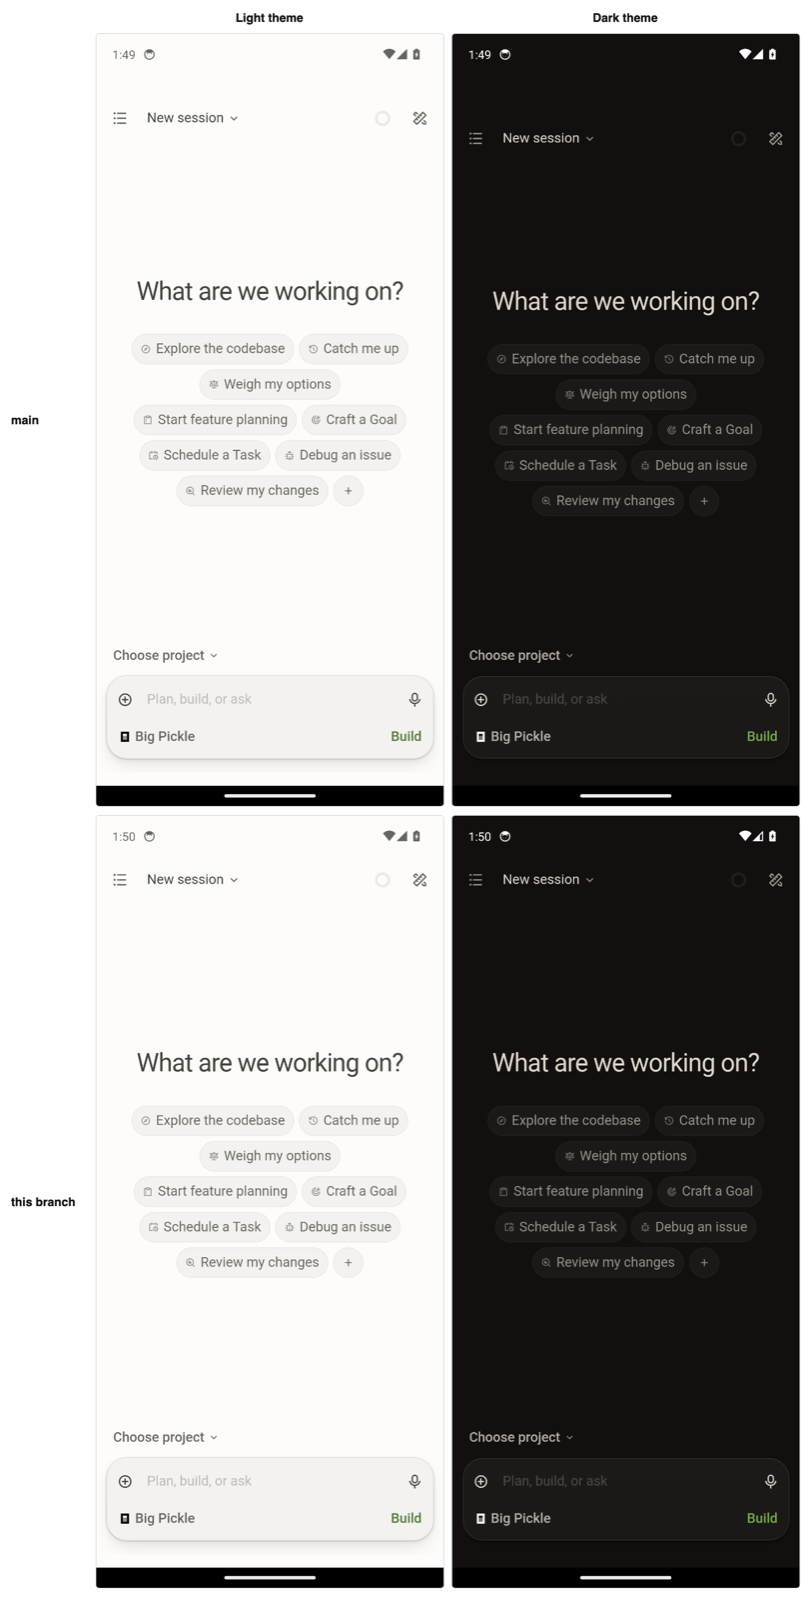
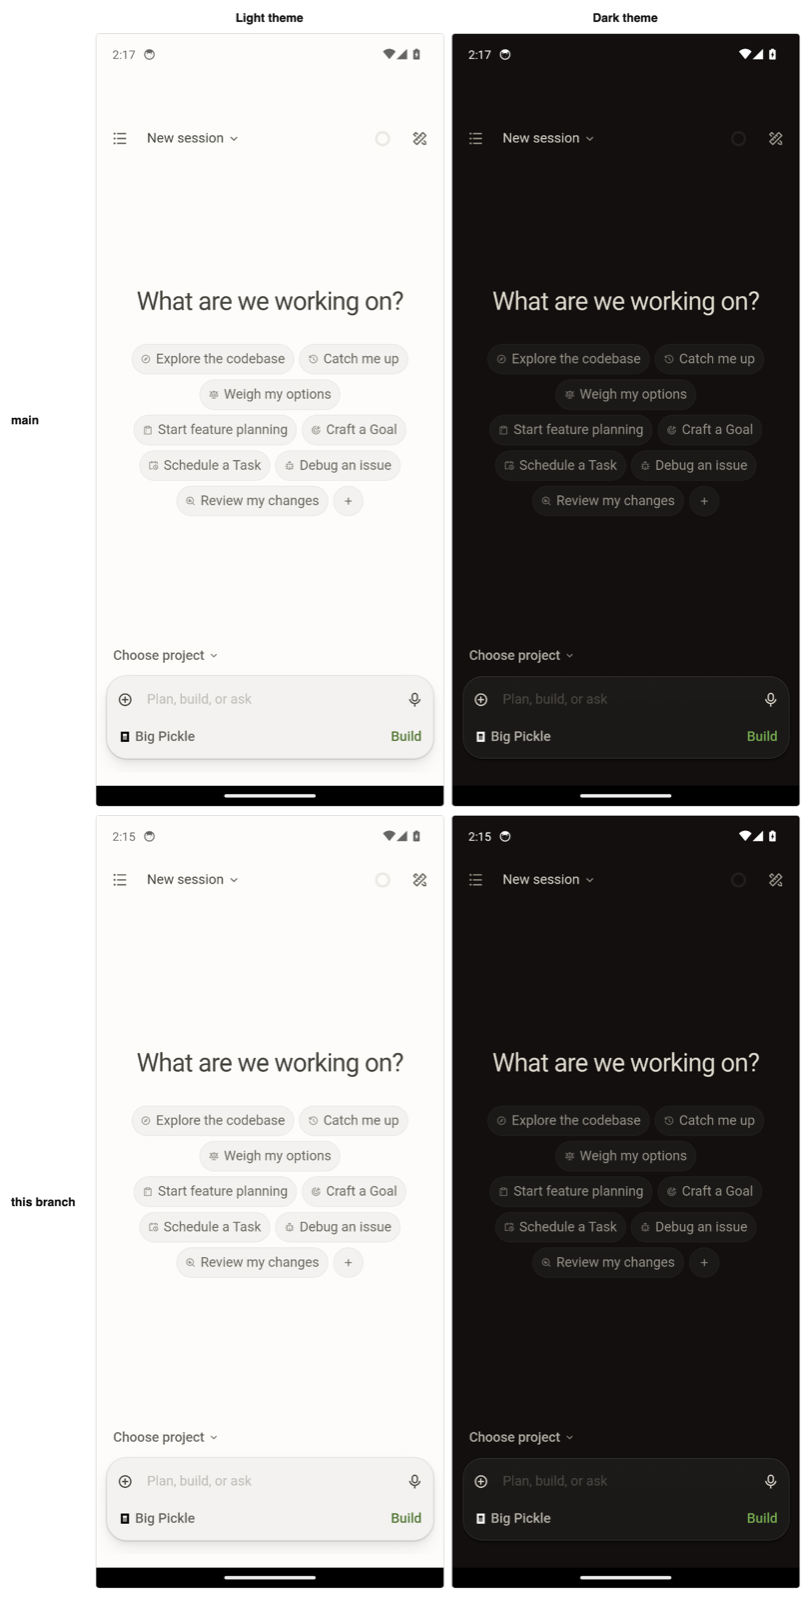
fix(mobile): drop the top inset only after Android moved the page

diff --git a/packages/ui/src/apps/mobileNativeChrome.ts b/packages/ui/src/apps/mobileNativeChrome.ts
@@ -38,11 +38,6 @@ export const useNativeMobileChrome = (): void => {
     const capacitorPlatform = (window as typeof window & { Capacitor?: { getPlatform?: () => string } }).Capacitor?.getPlatform?.();
     if (capacitorPlatform === 'android') {
       root.classList.add('oc-platform-android');
-      // Before Android 15 the overlay:false call below lays the WebView out under the
-      // status bar natively, so the page itself must not reserve that strip again.
-      if (isAndroidBeforeEdgeToEdge()) {
-        root.classList.add('oc-android-below-status-bar');
-      }
     }
 
     // iOS reports hardware keyboards natively (GCKeyboard); adopting that
@@ -70,7 +65,13 @@ export const useNativeMobileChrome = (): void => {
           const themeBg =
             (isDark ? localStorage.getItem('splashBgDark') : localStorage.getItem('splashBgLight')) ||
             (isDark ? '#171515' : '#fffdf4');
-          await StatusBar.setOverlaysWebView({ overlay: false }).catch(() => undefined);
+          const overlayOff = await StatusBar.setOverlaysWebView({ overlay: false }).then(() => true, () => false);
+          // Before Android 15 that call moves the WebView below the status bar natively, so
+          // the page must not reserve the strip again. Marked only once the call succeeded:
+          // until then the WebView still sits under the bar and needs the injected inset.
+          if (overlayOff && isAndroidBeforeEdgeToEdge()) {
+            root.classList.add('oc-android-below-status-bar');
+          }
           await StatusBar.setBackgroundColor({ color: themeBg }).catch(() => undefined);
           // Capacitor Style is named for the CONTENT: Style.Light = dark text (light bg),
           // Style.Dark = light text (dark bg). So dark theme → Style.Dark, light theme → Style.Light.

diff --git a/packages/mobile/HANDOFF.md b/packages/mobile/HANDOFF.md
@@ -159,8 +159,8 @@ iOS Simulator helpers: `mobile:sim:{boot,install,launch,run,serve,list,kill}` (s
 - **Android top inset comes from one place per OS version.** On Android 14 and older,
   `StatusBar.setOverlaysWebView({ overlay: false })` moves the WebView below the status bar, yet
   Capacitor still injects the bar height as `--safe-area-inset-top` once the WebView is 140 or
-  newer. `useNativeMobileChrome` marks those versions with `oc-android-below-status-bar`
-  (read from the WebView user agent) and `mobile.css` zeroes that inset there; Android 15+
+  newer. Once that call succeeds on those versions (read from the WebView user agent),
+  `useNativeMobileChrome` adds `oc-android-below-status-bar` and `mobile.css` zeroes that inset; Android 15+
   is edge-to-edge and keeps the injected value. Without it the app showed an empty strip under
   the status bar (#4803). The Android 14 emulator image ships WebView 113, so reproducing it
   needs a newer `com.android.webview` installed and selected.
